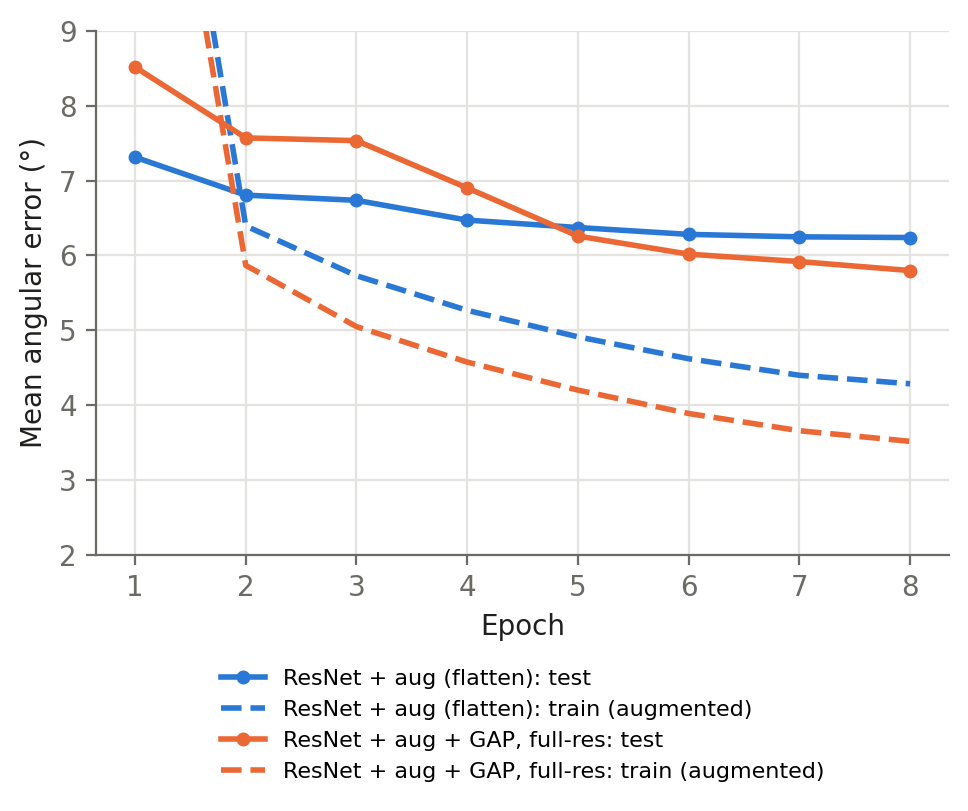
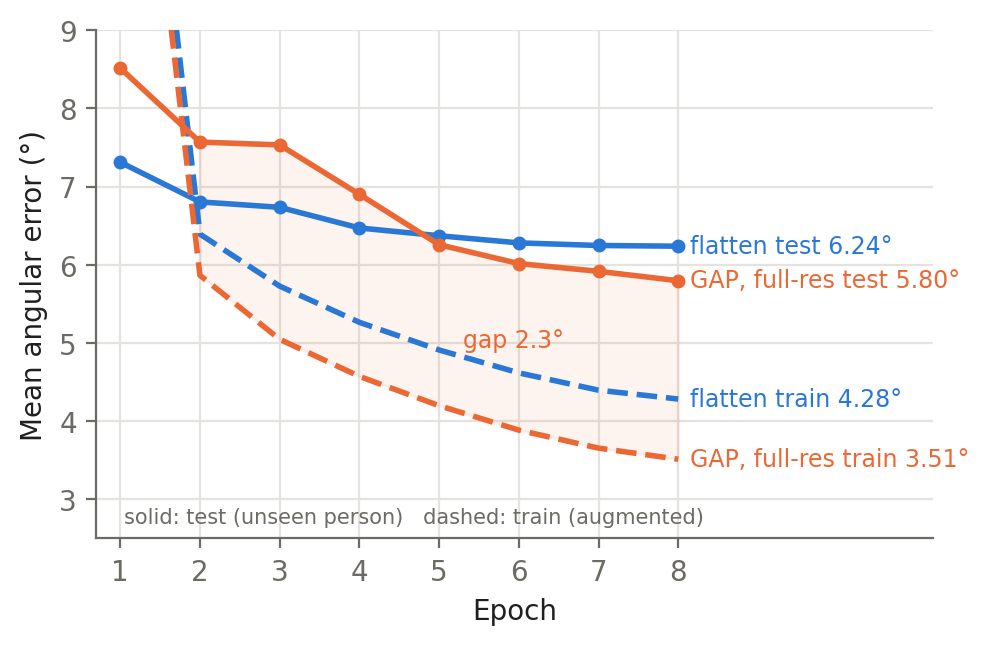
Part 2: clearer figures (paired per-person errors, bias analysis) and final report source

diff --git a/mpiigaze/part2/make_figures.py b/mpiigaze/part2/make_figures.py
@@ -25,72 +25,80 @@ def lopo(prefix):
     return np.array([d[k] for k in range(15)])
 
 
-# 1. 사람별 LOPO 오차
-series = [('Part 1 GazeNet (LeNet)', PART1), ('ResNet + aug (flatten head)', lopo('L_aug')),
-          ('ResNet + aug + GAP, full-res (final)', lopo('L_gapfull'))]
-fig, ax = plt.subplots(figsize=(10, 3.6))
-x = np.arange(15); w = 0.26
-for i, (lab, v) in enumerate(series):
-    ax.bar(x + (i - 1) * w, v, w - 0.03, color=C[i], label=f'{lab}: mean {v.mean():.2f}°')
-ax.set_xticks(x, [f'p{k:02d}' for k in range(15)])
-ax.set_ylabel('Mean angular error (°)')
-ax.set_ylim(0, 9.5)
-ax.legend(frameon=False, loc='upper center', bbox_to_anchor=(0.5, -0.12), ncol=3, fontsize=8.5)
-ax.set_title('Leave-one-person-out error per test person', loc='left', color=INK)
-fig.savefig(os.path.join(OUT, 'lopo_per_person.png')); plt.close(fig)
+from scipy import stats
+_, G, _, P = load_data('none')
 
-# 2. 단계별 개선 (LOPO 평균)
-steps = [('Part 1 GazeNet', PART1.mean()), ('ResNet + augmentation', lopo('L_aug').mean()),
-         ('+ global average pooling head', lopo('L_gap').mean()), ('+ full-resolution input', lopo('L_gapfull').mean())]
-fig, ax = plt.subplots(figsize=(6.5, 2.6))
-y = np.arange(len(steps))[::-1]
-ax.barh(y, [s[1] for s in steps], 0.6, color=[C[0]] * (len(steps) - 1) + [C[1]])
-for yi, (lab, v) in zip(y, steps):
-    ax.text(max(v, 6.0) + 0.05, yi, f'{v:.2f}°', va='center', color=INK)
-ax.axvline(6.0, color=MUTED, lw=1, ls='--')
-ax.text(6.0, y[0] + 0.45, ' 6°', color=MUTED, va='bottom')
-ax.set_yticks(y, [s[0] for s in steps]); ax.set_xlim(0, 7.2)
-ax.set_xlabel('LOPO mean angular error (°), single model'); ax.grid(axis='y', visible=False)
-fig.savefig(os.path.join(OUT, 'lopo_steps.png')); plt.close(fig)
+# 1. 모델별 LOPO 오차: 사람별 값(회색 선으로 짝지음) + 평균
+models_ = [('Part 1\nLeNet', PART1), ('ResNet\n+ aug', lopo('L_aug')),
+           ('+ GAP\nhead', lopo('L_gap')), ('+ full-res\n(final)', lopo('L_gapfull'))]
+V = np.array([m[1] for m in models_])           # (4, 15)
+fig, ax = plt.subplots(figsize=(5.6, 3.6))
+x = np.arange(len(models_))
+better = V[-1] < V[0]
+for k in range(15):
+    ax.plot(x, V[:, k], color=GRID, lw=1.2, zorder=1)
+for i in range(len(models_)):
+    col = [C[0] if b else C[1] for b in better] if i == len(models_) - 1 else MUTED
+    ax.scatter(np.full(15, x[i]), V[i], s=16, color=col, zorder=2, edgecolor='white', linewidth=0.6)
+    ax.plot([x[i] - 0.22, x[i] + 0.22], [V[i].mean()] * 2, color=INK, lw=2.5, zorder=3)
+    ax.text(x[i] + 0.26, V[i].mean(), f'{V[i].mean():.2f}°', va='center', fontsize=9, color=INK, fontweight='bold')
+ax.axhline(6.0, color=MUTED, lw=1, ls='--', zorder=0)
+p = stats.wilcoxon(V[-1], V[0]).pvalue
+ax.text(x[-1] + 0.05, V.max() + 0.15, f'blue: {better.sum()}/15 below Part 1\norange: above (Wilcoxon p = {p:.3f})', ha='center', fontsize=8.5, color=C[0])
+ax.set_xticks(x, [m[0] for m in models_]); ax.set_xlim(-0.4, x[-1] + 0.75)
+ax.set_ylabel('LOPO angular error (°)'); ax.grid(axis='x', visible=False)
+ax.set_ylim(3.5, V.max() + 1.0)
+fig.savefig(os.path.join(OUT, 'lopo_paired.png')); plt.close(fig)
 
-# 3. 학습 곡선 (LOPO 15 fold 평균)
-fig, ax = plt.subplots(figsize=(5.5, 3.4))
-for i, (pre, lab) in enumerate([('L_aug', 'ResNet + aug (flatten)'), ('L_gapfull', 'ResNet + aug + GAP, full-res')]):
+# 2. 학습 곡선 (LOPO 15 fold 평균), 범례 대신 직접 라벨
+fig, ax = plt.subplots(figsize=(5.4, 3.3))
+for i, (pre, lab) in enumerate([('L_aug', 'flatten'), ('L_gapfull', 'GAP, full-res')]):
     H = [json.load(open(os.path.join(HERE, 'runs', f'{pre}_p{k:02d}.json')))['hist'] for k in range(15)]
     tr = np.mean([[h['train_err'] for h in hh] for hh in H], 0)
     te = np.mean([[h['test_err'] for h in hh] for hh in H], 0)
     ep = np.arange(1, len(tr) + 1)
-    ax.plot(ep, te, color=C[i], lw=2, marker='o', ms=4, label=f'{lab}: test')
-    ax.plot(ep, tr, color=C[i], lw=2, ls='--', label=f'{lab}: train (augmented)')
-ax.set_xlabel('Epoch'); ax.set_ylabel('Mean angular error (°)'); ax.set_ylim(2, 9)
-ax.legend(frameon=False, fontsize=8, loc='upper center', bbox_to_anchor=(0.5, -0.18), ncol=1)
+    ax.plot(ep, te, color=C[i], lw=2, marker='o', ms=4)
+    ax.plot(ep, tr, color=C[i], lw=2, ls='--')
+    ax.text(ep[-1] + 0.15, te[-1], f'{lab} test {te[-1]:.2f}°', color=C[i], va='center', fontsize=8.5)
+    ax.text(ep[-1] + 0.15, tr[-1], f'{lab} train {tr[-1]:.2f}°', color=C[i], va='center', fontsize=8.5)
+    if pre == 'L_gapfull':
+        ax.fill_between(ep[1:], tr[1:], te[1:], color=C[i], alpha=0.08)
+        ax.text(5.3, (tr[5] + te[5]) / 2, f'gap {te[-1] - tr[-1]:.1f}°', color=C[i], fontsize=8.5)
+ax.set_xlabel('Epoch'); ax.set_ylabel('Mean angular error (°)'); ax.set_ylim(2.5, 9)
+ax.set_xlim(0.7, 11.2); ax.set_xticks(range(1, 9))
+ax.text(1.05, 2.7, 'solid: test (unseen person)   dashed: train (augmented)', fontsize=7.5, color=MUTED)
 fig.savefig(os.path.join(OUT, 'learning_curves.png')); plt.close(fig)
 
-# 4. 사람별 평균 잔차 (pitch, yaw) - 개인차(편향)가 오차의 큰 부분
-_, G, _, P = load_data('none')
-fig, ax = plt.subplots(figsize=(4.6, 4.2))
-bias, tot = [], []
+# 3. 사람별 고정 편향: (a) 평균 잔차 (b) 편향 제거 전후 오차 (분석용, 테스트 라벨 사용)
+bias, e0, e1 = [], [], []
 for k in range(15):
     _, te, _ = split(P, k, 'lopo')
-    p = np.load(os.path.join(HERE, 'runs', f'L_gapfull_p{k:02d}_pred.npy'))
-    r = np.degrees(p - G[te])
-    b = r.mean(0); bias.append(b)
-    ax.scatter(b[1], b[0], s=40, color=C[0], edgecolor='white', linewidth=1.5, zorder=3)
-    ax.annotate(f'p{k:02d}', (b[1], b[0]), textcoords='offset points', xytext=(5, 3), fontsize=8, color=MUTED)
-ax.axhline(0, color=MUTED, lw=0.8); ax.axvline(0, color=MUTED, lw=0.8)
-lim = np.abs(np.array(bias)).max() + 1
-ax.set_xlim(-lim, lim); ax.set_ylim(-lim, lim); ax.set_aspect('equal')
-ax.set_xlabel('Mean yaw residual (°)'); ax.set_ylabel('Mean pitch residual (°)')
-ax.set_title('Per-person systematic offset (final model)', loc='left', color=INK, fontsize=10)
+    p_ = np.load(os.path.join(HERE, 'runs', f'L_gapfull_p{k:02d}_pred.npy'))
+    bias.append(np.degrees(p_ - G[te]).mean(0))
+    e0.append(nn.angular_error_deg(p_, G[te]).mean())
+    e1.append(nn.angular_error_deg(p_ - (p_ - G[te]).mean(0), G[te]).mean())
+bias, e0, e1 = np.array(bias), np.array(e0), np.array(e1)
+fig, (a1, a2) = plt.subplots(1, 2, figsize=(8.6, 3.6), gridspec_kw={'width_ratios': [1, 1.15]})
+a1.scatter(bias[:, 1], bias[:, 0], s=36, color=C[0], edgecolor='white', linewidth=1.2, zorder=3)
+for k in range(15):
+    a1.annotate(f'p{k:02d}', (bias[k, 1], bias[k, 0]), textcoords='offset points', xytext=(4, 3), fontsize=7, color=MUTED)
+a1.axhline(0, color=MUTED, lw=0.8); a1.axvline(0, color=MUTED, lw=0.8)
+lim = np.abs(bias).max() + 1
+a1.set_xlim(-lim, lim); a1.set_ylim(-lim, lim); a1.set_aspect('equal')
+a1.set_xlabel('Mean yaw residual (°)'); a1.set_ylabel('Mean pitch residual (°)')
+a1.set_title(f'(a) per-person offset, mean |offset| = {np.linalg.norm(bias, axis=1).mean():.1f}°', loc='left', fontsize=9, color=INK)
+o = np.argsort(e0)
+y = np.arange(15)
+a2.hlines(y, e1[o], e0[o], color=GRID, lw=2.5)
+a2.scatter(e0[o], y, s=26, color=C[1], zorder=3, label=f'final model ({e0.mean():.2f}°)')
+a2.scatter(e1[o], y, s=26, color=C[0], zorder=3, label=f'offset removed ({e1.mean():.2f}°)')
+a2.set_yticks(y, [f'p{k:02d}' for k in o], fontsize=7.5)
+a2.set_xlabel('LOPO angular error (°)'); a2.grid(axis='y', visible=False)
+a2.legend(frameon=False, fontsize=8, loc='lower right')
+a2.set_title('(b) error before / after removing each offset', loc='left', fontsize=9, color=INK)
+fig.tight_layout()
 fig.savefig(os.path.join(OUT, 'person_bias.png')); plt.close(fig)
 
-# 편향을 사람별로 빼면 오차가 얼마나 줄어드는지 (분석용 수치, 테스트 라벨을 쓰므로 성능 주장이 아님)
-e0, e1 = [], []
-for k in range(15):
-    _, te, _ = split(P, k, 'lopo')
-    p = np.load(os.path.join(HERE, 'runs', f'L_gapfull_p{k:02d}_pred.npy'))
-    e0.append(nn.angular_error_deg(p, G[te]).mean())
-    e1.append(nn.angular_error_deg(p - (p - G[te]).mean(0), G[te]).mean())
 print(f'per-person bias |(pitch,yaw)| mean = {np.linalg.norm(bias, axis=1).mean():.2f} deg')
-print(f'error {np.mean(e0):.2f} -> {np.mean(e1):.2f} deg if each person\'s mean offset were removed (oracle)')
+print(f'error {e0.mean():.2f} -> {e1.mean():.2f} deg if each person\'s mean offset were removed (oracle)')
 print('figures written to', OUT)

diff --git a/mpiigaze/part2/report/main.tex b/mpiigaze/part2/report/main.tex
@@ -24,7 +24,7 @@
 \title{\Large\bfseries 교재 NumPy 코드 기반 CNN의 사람 독립 시선 추정:\\
 Global Average Pooling 잔차망으로 MPIIGaze LOPO 5.80$\dg$}
 \author{강현오 20243045\\ \small 딥러닝 Term Project \#1 Part 2\\
-\small 코드: \fillin{\url{https://github.com/...}}}
+\small 코드: \url{https://github.com/rkdgusdh/deep_learning_from_scratch/tree/master/mpiigaze/part2}}
 \date{}
 
 \begin{document}
@@ -101,7 +101,7 @@ ResNet (GAP) & flatten 대신 채널 평균(128) & 0.73M\\
 \item \textbf{통계 검정.} 모델 비교는 15명의 사람별 평균 오차에 대한 양측 Wilcoxon 부호순위 검정~\cite{wilcoxon}으로 수행하였다. 시드 변경만으로 fold 1 오차가 0.3$\dg$ 변동하였으므로, 단일 fold에서 0.3$\dg$ 이내의 차이는 유의하지 않은 것으로 간주한다.
 \item 환경: Apple M1 CPU, NumPy 2.0(Accelerate BLAS), 3개 학습 병렬 실행. LOPO fold당 학습 시간은 GAP 44분, 고해상도 GAP 155분이다.
 \end{itemize}
-\textbf{코드.} 전체 구현, 실험 설정, 결과 로그는 \fillin{\url{https://github.com/...}}에 공개하였다.
+\textbf{코드.} 전체 구현, 실험 설정, 결과 로그는 \url{https://github.com/rkdgusdh/deep_learning_from_scratch/tree/master/mpiigaze/part2}에 공개하였다.
 
 \section{결과}
 \subsection{LOPO 결과}
@@ -122,21 +122,14 @@ ResNet (GAP) + 증강 & 0.73M & 5.87 & 3.82\\
 \bottomrule
 \end{tabular}
 \end{table}
-LOPO 결과를 표~\ref{tab:lopo}와 그림~\ref{fig:steps}, 사람별 오차를 그림~\ref{fig:person}, 사람별 쌍체 비교를 표~\ref{tab:stats}에 제시한다. 원 논문~\cite{zhang2015}의 LeNet 계열 모델은 동일 프로토콜에서 6.3$\dg$를 보고하였다.
+LOPO 결과를 표~\ref{tab:lopo}, 사람별 오차와 쌍체 비교를 그림~\ref{fig:steps}와 표~\ref{tab:stats}에 제시한다. 원 논문~\cite{zhang2015}의 LeNet 계열 모델은 동일 프로토콜에서 6.3$\dg$를 보고하였다.
 
 \begin{figure}[!htb]
 \centering
-\includegraphics[width=\linewidth]{lopo_steps.png}
-\caption{단계별 LOPO 평균 오차(단일 모델). 점선: 6$\dg$.}
+\includegraphics[width=\linewidth]{lopo_paired.png}
+\caption{모델별 LOPO 오차. 점: 테스트 사람, 회색 선: 같은 사람 연결, 검은 막대: 15명 평균, 점선: 6$\dg$. 최종 모델 열의 파란 점은 Part 1보다 오차가 낮은 사람(12명), 주황 점은 높은 사람(3명).}
 \label{fig:steps}
 \end{figure}
-
-\begin{figure*}[!t]
-\centering
-\includegraphics[width=0.92\textwidth]{lopo_per_person.png}
-\caption{테스트 사람별 LOPO 오차. 최종 모델은 15명 중 12명에서 Part 1보다 낮다.}
-\label{fig:person}
-\end{figure*}
 
 \begin{table}[!htb]
 \centering\small
@@ -192,15 +185,15 @@ MSE 손실 & 6.82\\
 \begin{figure}[!htb]
 \centering
 \includegraphics[width=0.95\linewidth]{learning_curves.png}
-\caption{LOPO 15 fold 평균 학습 곡선. 실선: 테스트, 점선: 증강된 학습 배치.}
+\caption{LOPO 15 fold 평균 학습 곡선. 실선: 테스트, 점선: 증강된 학습 배치, 음영: 최종 모델의 학습--테스트 오차 차이.}
 \label{fig:curve}
 \end{figure}
-\begin{figure}[!htb]
+\begin{figure*}[!t]
 \centering
-\includegraphics[width=0.8\linewidth]{person_bias.png}
-\caption{최종 모델의 사람별 평균 잔차(예측$-$정답).}
+\includegraphics[width=0.88\textwidth]{person_bias.png}
+\caption{최종 모델의 사람별 고정 편향. (a) 사람별 평균 잔차(예측$-$정답). (b) 사람별 오차와, 각자의 평균 잔차를 차감한 뒤의 오차(테스트 라벨을 사용하는 분석용 계산).}
 \label{fig:bias}
-\end{figure}
+\end{figure*}
 학습 곡선을 그림~\ref{fig:curve}, 사람별 평균 잔차를 그림~\ref{fig:bias}에 제시한다. 사람별 평균 잔차의 크기는 평균 3.38$\dg$이다. 사람별 평균 잔차를 예측에서 차감하면(테스트 라벨을 사용하는 분석용 계산) 오차는 5.80$\dg$에서 4.63$\dg$로 감소한다.
 
 좌우 반전 테스트 시 증강(TTA)을 적용하면 최종 모델의 오차는 5.76$\dg$, GAP 두 모델의 예측 평균은 5.67$\dg$이다. TTA는 테스트 오차 분석 과정에서 도출되었으므로 최종 성능에서 제외한다.

diff --git a/mpiigaze/part2/README.md b/mpiigaze/part2/README.md
@@ -15,7 +15,9 @@
 - 최종 모델은 15명 중 12명에서 Part 1보다 낮다 (Wilcoxon 부호순위 검정, p = 0.007).
 - 전체 실험 기록: [`results.csv`](results.csv), 요약 표: [`results_summary.md`](results_summary.md), 보고서 원본: [`report/main.tex`](report/main.tex)
 
-![단계별 개선](figures/lopo_steps.png)
+![모델별 LOPO 오차](figures/lopo_paired.png)
+
+![사람별 고정 편향](figures/person_bias.png)
 
 ## 교재 코드와의 관계
 
